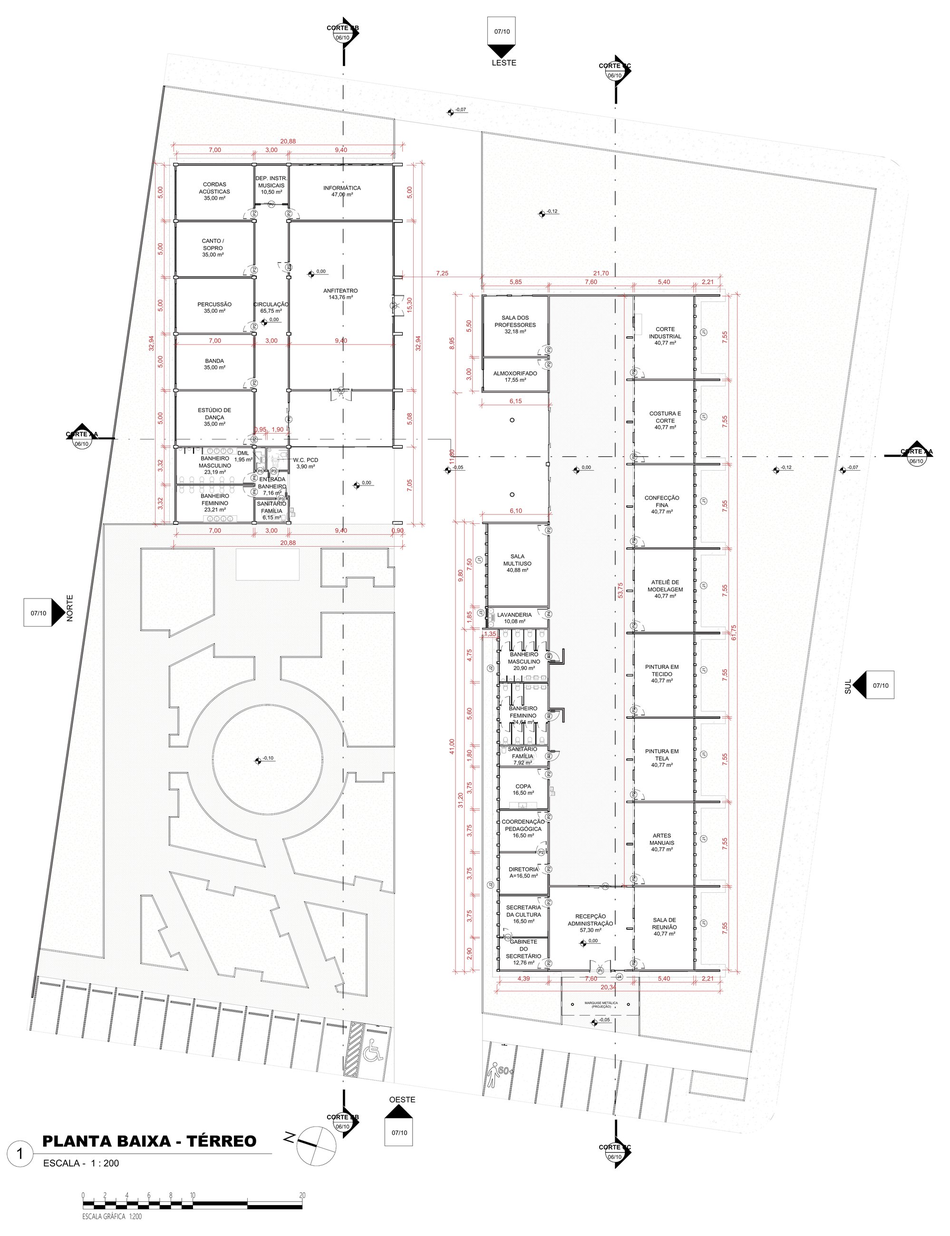
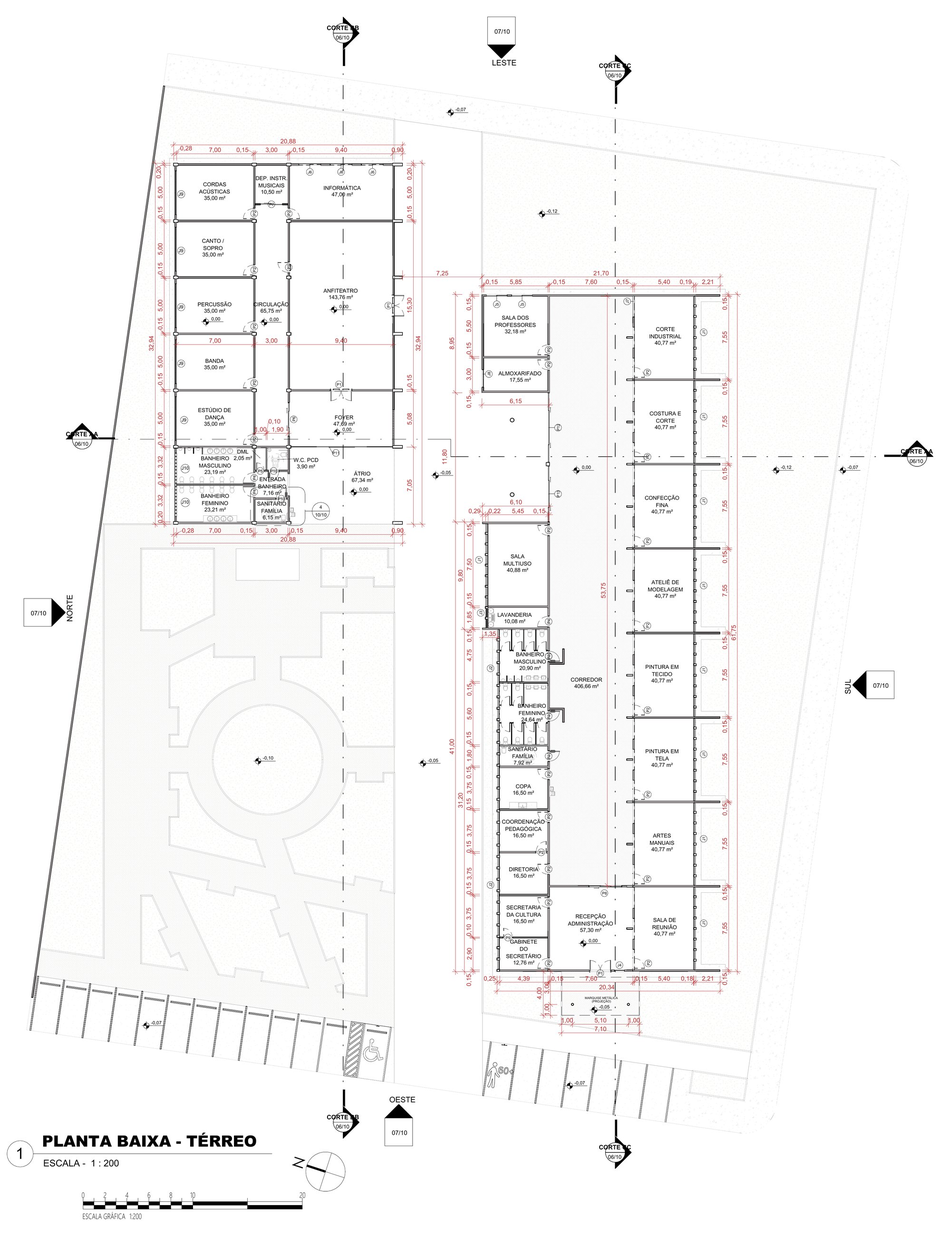
Galeria separada em Imagens e Pranchas; renders de 20/11, pranchas finais e textos da monografia v5
- Imagens: 8 renders novos do Lumion (20/11) no mosaico, no lugar dos de 29/10
- Pranchas: um quadro por folha (10 folhas, 22 desenhos na tela cheia, com os 3 detalhes)
- Textos alinhados à monografia v5: anfiteatro, foyer com o acervo, gestos, recepção, sanitário família
- README: descrição das duas listas da galeria

Claude-Session: https://claude.ai/code/session_01QK6B2hHwSUhmAHQDkk5ZUr

diff --git a/index.html b/index.html
@@ -537,6 +537,18 @@
     transition: background-color .2s, color .2s;
   }
   .ver-galeria[hidden] { display: none; }
+  /* subtítulos da galeria: Imagens e Pranchas */
+  .sub-galeria { margin: 2.75rem 0 0; font-family: var(--sans); font-size: .75rem; font-weight: 500; letter-spacing: .16em; text-transform: uppercase; color: var(--ardosia); }
+  .revelar > p + .sub-galeria { margin-top: 2rem; }
+  .sub-galeria + .galeria, .sub-galeria + .pranchas { margin-top: .9rem; }
+  /* pranchas: uma capa por folha; os outros desenhos da folha só aparecem na tela cheia */
+  .pranchas { display: grid; grid-template-columns: repeat(5, minmax(0, 1fr)); gap: 1.25rem .75rem; max-width: 56rem; list-style: none; }
+  .js .pranchas > li:not(.folha-capa) { display: none; }
+  .pranchas .quadro { height: auto; min-height: 0; aspect-ratio: 1; padding: 0; }
+  .pranchas .quadro:has(img) { border: 1px solid var(--linha); }
+  .js .pranchas .quadro:hover { border-color: var(--laranja); }
+  .pranchas .folha { margin: .55rem 0 0; font-family: var(--sans); font-size: .82rem; line-height: 1.35; color: var(--navy); }
+  .pranchas .folha span { display: block; margin-bottom: .15rem; font-size: .66rem; letter-spacing: .16em; text-transform: uppercase; color: var(--laranja-texto); }
   .ver-galeria svg { width: .95rem; height: .95rem; flex: none; }
   .ver-galeria:hover { background: var(--navy); color: #fff; }
 
@@ -804,6 +816,7 @@
   }
 
   @media (max-width: 960px) {
+    .pranchas { grid-template-columns: repeat(3, minmax(0, 1fr)); }
     .grade { grid-template-columns: minmax(0, 1fr); gap: 1rem; }
     .grade > .lateral { padding-top: 0; }
     .grade > .lateral ~ .lateral { margin-top: 2.75rem; }
@@ -828,6 +841,7 @@
     body { font-size: 1.03rem; }
     .setores, .pessoas, .preserva, .camadas, .legenda, .condicoes, .fotos, .dados { grid-template-columns: minmax(0, 1fr); }
     .galeria { grid-template-columns: repeat(2, minmax(0, 1fr)); }
+    .pranchas { grid-template-columns: repeat(2, minmax(0, 1fr)); gap: 1.1rem .75rem; }
     .galeria .destaque { grid-row: auto; }
     .destaque .quadro { aspect-ratio: 3 / 2; }
     /* no celular o mosaico fica com cinco; sem JavaScript, o último quadro fecha a grade sem sobrar buraco */
@@ -925,7 +939,7 @@
         <div class="largo"><dt>Área construída</dt><dd>1.975,72 m²: 1.129,59 m² no prédio de 1960, 687,79 m² no anexo e 158,34 m² na marquise de concreto</dd></div>
         <div><dt>Índices</dt><dd>Taxa de ocupação de 35,8%, coeficiente de aproveitamento de 0,36 e permeabilidade acima do mínimo de 8%</dd></div>
         <div><dt>Materiais do novo</dt><dd>Tijolo de cinza do bagaço de cana, concreto aparente, aço e telha termoacústica</dd></div>
-        <div class="largo"><dt>Programa</dt><dd><span class="parte"><strong>Prédio de 1960:</strong> oficinas de moda e confecção, pintura em tela e em tecido, biscuit e artes manuais (crochê e tricô), sala multiuso, administração e Secretaria da Cultura.</span> <span class="parte"><strong>Anexo:</strong> salas de música (cordas, canto e sopro, percussão e banda), estúdio de dança, informática e auditório.</span> <span class="parte"><strong>Área externa:</strong> praça do ipê-rosa com palco externo e feira cultural, marquise de convivência e estacionamento.</span></dd></div>
+        <div class="largo"><dt>Programa</dt><dd><span class="parte"><strong>Prédio de 1960:</strong> oficinas de moda e confecção, pintura em tela e em tecido, biscuit e artes manuais (crochê e tricô), sala multiuso, administração e Secretaria da Cultura.</span> <span class="parte"><strong>Anexo:</strong> salas de música (cordas, canto e sopro, percussão e banda), estúdio de dança, informática, anfiteatro e foyer de exposições.</span> <span class="parte"><strong>Área externa:</strong> praça do ipê-rosa com palco externo e feira cultural, marquise de convivência e estacionamento.</span></dd></div>
       </dl>
     </div>
   </div>
@@ -953,7 +967,7 @@
       <ol class="objetivos">
         <li><span class="n">01</span><span class="t">Devolver o CEAC à cidade como centro cultural contemporâneo, funcional e integrado à vida comunitária.</span></li>
         <li><span class="n">02</span><span class="t">Preservar o que o prédio de 1960 tem de valor: a fachada de tijolo aparente com pilares pintados, o piso de caquinhos, os painéis pintados e a ventilação natural.</span></li>
-        <li><span class="n">03</span><span class="t">Criar os espaços que os cursos pedem e o prédio nunca teve: salas de música com isolamento acústico, estúdio de dança, auditório e convivência coberta.</span></li>
+        <li><span class="n">03</span><span class="t">Criar os espaços que os cursos pedem e o prédio nunca teve: salas de música com isolamento acústico, estúdio de dança, anfiteatro e convivência coberta.</span></li>
         <li><span class="n">04</span><span class="t">Construir o novo com material regional e sustentável, o tijolo de cinza do bagaço de cana, ligando a obra à história econômica de Iracemápolis.</span></li>
       </ol>
     </div>
@@ -1130,11 +1144,11 @@
     <h3 class="lateral rotulo-bloco"><span class="rotulo">Os cinco gestos</span></h3>
     <div class="revelar">
       <ol class="gestos">
-        <li><span class="n">1</span><div><h4>Reativação bioclimática</h4><p>As calhas do vale e as janelas altas a norte são restauradas, e a ventilação natural por efeito chaminé volta a funcionar. Na entrada administrativa, uma marquise metálica nova recebe a água do vale nas chuvas fortes e a leva ao chão por dois pilares-condutores. O sistema original é reativado, não substituído.</p></div></li>
+        <li><span class="n">1</span><div><h4>Reativação bioclimática</h4><p>As calhas do vale e as janelas altas a norte são restauradas, e a ventilação natural por efeito chaminé volta a funcionar. Na fachada oeste, a marquise metálica da entrada administrativa recebe a água da calha do vale e a leva ao piso pelos pilares. O sistema original é reativado, não substituído.</p></div></li>
         <li><span class="n">2</span><div><h4>Marquise integradora</h4><p>Uma cobertura plana de concreto aparente liga o prédio antigo ao anexo e cria a convivência coberta que o conjunto não tinha.</p></div></li>
-        <li><span class="n">3</span><div><h4>Anexo em cumeeira invertida</h4><p>A cobertura em Λ dá pé-direito alto às salas de música e dança, leva a água para os beirais e traz luz difusa do sul. Aletas de concreto aparente dão ritmo e sombra à fachada voltada para a marquise; a norte, cada sala ganha uma janela com moldura de concreto, prateleira de luz e lâminas que sombreiam o vidro.</p></div></li>
-        <li><span class="n">4</span><div><h4>Acústica no anexo</h4><p>As salas de música recebem tratamento acústico interno, com painéis absorventes e difusores, e são separadas por divisórias de drywall duplo com lã de rocha. A parede de tijolo de CBC é a primeira barreira.</p></div></li>
-        <li><span class="n">5</span><div><h4>Distribuição por aptidão</h4><p>Cada uso vai para o volume que já tem as condições que ele pede: moda, artes manuais, artes visuais e administração no prédio de 1960; música, dança, informática e o auditório no anexo.</p></div></li>
+        <li><span class="n">3</span><div><h4>Anexo com cumeeira e zenital sul</h4><p>A cobertura em Λ dá pé-direito alto às salas de música, ao estúdio de dança e ao anfiteatro e leva a água para calhas externas nos beirais; o zenital voltado ao sul traz luz difusa à circulação central. Aletas de concreto aparente dão ritmo e sombra à fachada voltada para a marquise; a norte, cada sala ganha uma janela com moldura de concreto, prateleira de luz e lâminas que sombreiam o vidro.</p></div></li>
+        <li><span class="n">4</span><div><h4>Acústica no anexo</h4><p>As salas de música recebem tratamento acústico interno, com painéis absorventes e difusores, e são separadas por divisórias de drywall duplo com lã de rocha. A parede de tijolo de CBC é a primeira barreira, as divisórias isolam uma sala da outra e o tratamento interno corrige o som dentro de cada sala.</p></div></li>
+        <li><span class="n">5</span><div><h4>Distribuição por aptidão</h4><p>Cada uso vai para o volume que já tem as condições que ele pede: moda, confecção, artes visuais e administração, sem demanda acústica, no prédio de 1960; música, dança, informática e o anfiteatro no anexo, com as exposições no foyer.</p></div></li>
       </ol>
     </div>
 
@@ -1144,22 +1158,22 @@
         <article class="setor antigo">
           <span class="campo">Prédio de 1960</span>
           <h4>Oficinas e administração</h4>
-          <p>Oito salas de oficina: três de moda e confecção, três de artes visuais (pintura em tela, pintura em tecido e modelagem em biscuit), artes manuais e uma sala multiuso. Também a Secretaria Municipal da Cultura, a direção e a coordenação pedagógica do CEAC, a sala dos professores, a sala de reunião e sanitários refeitos, com sanitário acessível e sanitário família. Nenhuma parede original é demolida: o prédio recebe só uma parede nova, uma janela no lugar do cobogó da administração e uma porta remanejada.</p>
+          <p>Sete oficinas nas salas da face sul: três de moda e confecção, três de artes visuais (pintura em tela, pintura em tecido e modelagem em biscuit) e artes manuais; na face norte, a sala multiuso e a sala dos professores. A Secretaria Municipal da Cultura e a direção do CEAC ficam dos dois lados da recepção, onde se fazem as matrículas, e dividem a copa e a sala de reunião. Os sanitários são refeitos, com um sanitário família acessível; fora deles, nenhuma parede é demolida.</p>
         </article>
         <article class="setor anexo">
           <span class="campo">Anexo</span>
-          <h4>Música, dança e auditório</h4>
-          <p>Quatro salas de música (cordas, canto e sopro, percussão e banda), estúdio de dança, laboratório de informática e um auditório voltado para a marquise.</p>
+          <h4>Música, dança e anfiteatro</h4>
+          <p>Na faixa norte, quatro salas de música (cordas, canto e sopro, percussão e banda) e o estúdio de dança; na faixa sul, voltados à marquise, o átrio, o foyer, o anfiteatro e o laboratório de informática. O foyer recebe a exposição permanente do acervo Maria Dezonne Pacheco Fernandes e mostras dos artistas do CEAC.</p>
         </article>
         <article class="setor marquise">
           <span class="campo">Marquise</span>
           <h4>Convivência coberta</h4>
-          <p>Cobertura plana de concreto aparente entre os dois prédios: sombra, encontro e passagem.</p>
+          <p>Laje plana de concreto aparente, com as laterais abertas, sobre a esplanada que atravessa o terreno entre os dois prédios: sombra, encontro e passagem.</p>
         </article>
         <article class="setor praca">
           <span class="campo">Área externa</span>
           <h4>Praça do ipê</h4>
-          <p>Praça circular em torno do ipê-rosa existente, o protagonista. Junto ao anexo, um palco externo em nível, de concreto aparente, com a plateia no gramado; a oeste, barracas desmontáveis para uma feira cultural; e ainda playground, mesas de jogos e bicicletário. Doze espécies nativas garantem floração em todos os meses.</p>
+          <p>Praça circular em torno do ipê-rosa existente, o protagonista, com piso drenante, playground, mesas de jogos e bicicletário. Junto ao anexo, um palco externo em nível, de concreto aparente, recebe apresentações ao ar livre, e tendas desmontáveis abrigam uma feira. Doze espécies nativas garantem floração o ano todo.</p>
         </article>
       </div>
     </div>
@@ -1187,7 +1201,7 @@
       <blockquote class="citacao">
         <p>É a continuidade pelo contraste: o legado reconhecido exatamente por aquilo que o novo não imita.</p>
       </blockquote>
-      <p class="aviso">Plantas, cortes, fachadas e imagens do projeto estão na <a href="#galeria">galeria</a>.</p>
+      <p class="aviso">As imagens e as dez pranchas do projeto estão na <a href="#galeria">galeria</a>.</p>
     </div>
   </div>
 </section>
@@ -1197,31 +1211,44 @@
     <div class="lateral"><span class="rotulo">06 · Galeria</span></div>
     <div class="revelar">
       <h2>O projeto em <em>imagens</em>.</h2>
-      <p>Renders do modelo e desenhos das pranchas técnicas. Clique em uma imagem para ampliar.</p>
-      <ul class="galeria">
-        <li class="destaque"><button type="button" class="quadro"><img src="galeria/render-08-mini.jpg" data-grande="galeria/render-08.jpg" alt="Ao pôr do sol: o ipê-rosa, o caminho e a fachada do prédio de 1960" width="1100" height="619" loading="lazy"><span class="titulo-quadro"><strong>Ao pôr do sol: o ipê-rosa, o caminho e a fachada do prédio de 1960</strong></span></button></li>
-        <li><button type="button" class="quadro"><img src="galeria/render-12-mini.jpg" data-grande="galeria/render-12.jpg" alt="O ipê-rosa existente, protagonista da praça" width="1100" height="619" loading="lazy"><span class="titulo-quadro"><strong>O ipê-rosa existente, protagonista da praça</strong></span></button></li>
-        <li><button type="button" class="quadro"><img src="galeria/render-02-mini.jpg" data-grande="galeria/render-02.jpg" alt="Chegada pelo estacionamento" width="1100" height="619" loading="lazy"><span class="titulo-quadro"><strong>Chegada pelo estacionamento</strong></span></button></li>
-        <li><button type="button" class="quadro"><img src="galeria/render-04-mini.jpg" data-grande="galeria/render-04.jpg" alt="Os dois telhados: o V de 1960 e a cumeeira do anexo" width="1100" height="619" loading="lazy"><span class="titulo-quadro"><strong>Os dois telhados: o V de 1960 e a cumeeira do anexo</strong></span></button></li>
-        <li><button type="button" class="quadro"><img src="galeria/render-09-mini.jpg" data-grande="galeria/render-09.jpg" alt="O anexo e o prédio de 1960 vistos da praça" width="1100" height="619" loading="lazy"><span class="titulo-quadro"><strong>O anexo e o prédio de 1960 vistos da praça</strong></span></button></li>
-        <li><button type="button" class="quadro"><img src="galeria/render-10-mini.jpg" data-grande="galeria/render-10.jpg" alt="O prédio de 1960 visto da calçada" width="1100" height="619" loading="lazy"><span class="titulo-quadro"><strong>O prédio de 1960 visto da calçada</strong></span></button></li>
-        <li class="desenho"><button type="button" class="quadro"><img src="galeria/perspectiva-01-mini.jpg" data-grande="galeria/perspectiva-01.jpg" alt="Volumetria: perspectiva do conjunto" width="1100" height="287" loading="lazy"><span class="titulo-quadro"><strong>Volumetria: perspectiva do conjunto</strong></span></button></li>
-        <li class="desenho"><button type="button" class="quadro"><img src="galeria/perspectiva-02-mini.jpg" data-grande="galeria/perspectiva-02.jpg" alt="Volumetria: o prédio de 1960 e o anexo" width="1100" height="372" loading="lazy"><span class="titulo-quadro"><strong>Volumetria: o prédio de 1960 e o anexo</strong></span></button></li>
-        <li class="desenho"><button type="button" class="quadro"><img src="galeria/implantacao-mini.jpg" data-grande="galeria/implantacao.jpg" alt="Implantação" width="866" height="1100" loading="lazy"><span class="titulo-quadro"><strong>Implantação</strong></span></button></li>
-        <li class="desenho"><button type="button" class="quadro"><img src="galeria/planta-tecnica-mini.jpg" data-grande="galeria/planta-tecnica.jpg" alt="Planta baixa do térreo" width="845" height="1100" loading="lazy"><span class="titulo-quadro"><strong>Planta baixa do térreo</strong></span></button></li>
-        <li class="desenho"><button type="button" class="quadro"><img src="galeria/layout-mini.jpg" data-grande="galeria/layout.jpg" alt="Layout do térreo" width="851" height="1100" loading="lazy"><span class="titulo-quadro"><strong>Layout do térreo</strong></span></button></li>
-        <li class="desenho"><button type="button" class="quadro"><img src="galeria/cobertura-mini.jpg" data-grande="galeria/cobertura.jpg" alt="Planta de cobertura" width="837" height="1100" loading="lazy"><span class="titulo-quadro"><strong>Planta de cobertura</strong></span></button></li>
-        <li class="desenho"><button type="button" class="quadro"><img src="galeria/estrutura-mini.jpg" data-grande="galeria/estrutura.jpg" alt="Planta de estrutura" width="899" height="1100" loading="lazy"><span class="titulo-quadro"><strong>Planta de estrutura</strong></span></button></li>
-        <li class="desenho"><button type="button" class="quadro"><img src="galeria/corte-aa-mini.jpg" data-grande="galeria/corte-aa.jpg" alt="Corte AA" width="1100" height="246" loading="lazy"><span class="titulo-quadro"><strong>Corte AA</strong></span></button></li>
-        <li class="desenho"><button type="button" class="quadro"><img src="galeria/corte-bb-mini.jpg" data-grande="galeria/corte-bb.jpg" alt="Corte BB" width="1100" height="169" loading="lazy"><span class="titulo-quadro"><strong>Corte BB</strong></span></button></li>
-        <li class="desenho"><button type="button" class="quadro"><img src="galeria/corte-cc-mini.jpg" data-grande="galeria/corte-cc.jpg" alt="Corte CC" width="1100" height="186" loading="lazy"><span class="titulo-quadro"><strong>Corte CC</strong></span></button></li>
-        <li class="desenho"><button type="button" class="quadro"><img src="galeria/fachadas-norte-sul-mini.jpg" data-grande="galeria/fachadas-norte-sul.jpg" alt="Fachadas norte e sul" width="1100" height="339" loading="lazy"><span class="titulo-quadro"><strong>Fachadas norte e sul</strong></span></button></li>
-        <li class="desenho"><button type="button" class="quadro"><img src="galeria/fachadas-leste-oeste-mini.jpg" data-grande="galeria/fachadas-leste-oeste.jpg" alt="Fachadas leste e oeste" width="1100" height="518" loading="lazy"><span class="titulo-quadro"><strong>Fachadas leste e oeste</strong></span></button></li>
-        <li class="desenho"><button type="button" class="quadro"><img src="galeria/paisagismo-mini.jpg" data-grande="galeria/paisagismo.jpg" alt="Paisagismo: a praça do ipê" width="859" height="1100" loading="lazy"><span class="titulo-quadro"><strong>Paisagismo: a praça do ipê</strong></span></button></li>
-        <li class="desenho"><button type="button" class="quadro"><img src="galeria/quadro-especies-mini.jpg" data-grande="galeria/quadro-especies.jpg" alt="Quadro de espécies da praça" width="1100" height="466" loading="lazy"><span class="titulo-quadro"><strong>Quadro de espécies da praça</strong></span></button></li>
-        <li class="desenho"><button type="button" class="quadro"><img src="galeria/demolir-construir-mini.jpg" data-grande="galeria/demolir-construir.jpg" alt="Demolir e construir: o prédio de 1960" width="407" height="1100" loading="lazy"><span class="titulo-quadro"><strong>Demolir e construir: o prédio de 1960</strong></span></button></li>
+      <p>Vistas feitas no Lumion a partir do modelo do Revit e as dez pranchas técnicas do projeto. Clique para ampliar.</p>
+      <h3 class="sub-galeria">Imagens</h3>
+      <ul class="galeria" data-nome="Imagens">
+        <li class="destaque"><button type="button" class="quadro"><img src="galeria/render-praca-mini.jpg" data-grande="galeria/render-praca.jpg" alt="A praça, com o ipê-rosa no centro, a feira, o playground e o anexo ao fundo" width="1100" height="619" loading="lazy"><span class="titulo-quadro"><strong>A praça, com o ipê-rosa no centro, a feira, o playground e o anexo ao fundo</strong></span></button></li>
+        <li><button type="button" class="quadro"><img src="galeria/render-fachada-sul-mini.jpg" data-grande="galeria/render-fachada-sul.jpg" alt="A fachada sul do edifício de 1960, vista da Rua Cesarino Borba" width="1100" height="619" loading="lazy"><span class="titulo-quadro"><strong>A fachada sul do edifício de 1960, vista da Rua Cesarino Borba</strong></span></button></li>
+        <li><button type="button" class="quadro"><img src="galeria/render-esplanada-mini.jpg" data-grande="galeria/render-esplanada.jpg" alt="A esplanada sob a marquise de concreto, entre o anexo e o edifício de 1960" width="1100" height="619" loading="lazy"><span class="titulo-quadro"><strong>A esplanada sob a marquise de concreto, entre o anexo e o edifício de 1960</strong></span></button></li>
+        <li><button type="button" class="quadro"><img src="galeria/render-foyer-mini.jpg" data-grande="galeria/render-foyer.jpg" alt="O foyer do anexo, com a exposição e o cobogó de tijolo de CBC" width="1100" height="619" loading="lazy"><span class="titulo-quadro"><strong>O foyer do anexo, com a exposição e o cobogó de tijolo de CBC</strong></span></button></li>
+        <li><button type="button" class="quadro"><img src="galeria/render-fachada-leste-mini.jpg" data-grande="galeria/render-fachada-leste.jpg" alt="A fachada leste, na Rua Dom Pedro II: o telhado borboleta de 1960 e a cumeeira do anexo" width="1100" height="619" loading="lazy"><span class="titulo-quadro"><strong>A fachada leste, na Rua Dom Pedro II: o telhado borboleta de 1960 e a cumeeira do anexo</strong></span></button></li>
+        <li><button type="button" class="quadro"><img src="galeria/render-estacionamento-mini.jpg" data-grande="galeria/render-estacionamento.jpg" alt="O estacionamento e a entrada administrativa, com a marquise metálica" width="1100" height="619" loading="lazy"><span class="titulo-quadro"><strong>O estacionamento e a entrada administrativa, com a marquise metálica</strong></span></button></li>
+        <li><button type="button" class="quadro"><img src="galeria/render-marquise-mini.jpg" data-grande="galeria/render-marquise.jpg" alt="A marquise de concreto sobre a esplanada" width="1100" height="619" loading="lazy"><span class="titulo-quadro"><strong>A marquise de concreto sobre a esplanada</strong></span></button></li>
+        <li><button type="button" class="quadro"><img src="galeria/render-sob-a-marquise-mini.jpg" data-grande="galeria/render-sob-a-marquise.jpg" alt="O foyer envidraçado do anexo, à esquerda, e o edifício de 1960" width="1100" height="619" loading="lazy"><span class="titulo-quadro"><strong>O foyer envidraçado do anexo, à esquerda, e o edifício de 1960</strong></span></button></li>
       </ul>
-      <button type="button" class="ver-galeria" hidden><svg viewBox="0 0 16 16" aria-hidden="true"><path d="M1.5 1.5h5v5h-5zM9.5 1.5h5v5h-5zM1.5 9.5h5v5h-5zM9.5 9.5h5v5h-5z" fill="none" stroke="currentColor" stroke-width="1.3"/></svg><span>Ver a galeria completa (<span class="n">21</span>)</span></button>
+      <button type="button" class="ver-galeria" hidden><svg viewBox="0 0 16 16" aria-hidden="true"><path d="M1.5 1.5h5v5h-5zM9.5 1.5h5v5h-5zM1.5 9.5h5v5h-5zM9.5 9.5h5v5h-5z" fill="none" stroke="currentColor" stroke-width="1.3"/></svg><span>Ver todas as imagens (<span class="n">8</span>)</span></button>
+      <h3 class="sub-galeria">Pranchas</h3>
+      <ul class="pranchas" data-nome="Pranchas">
+        <li class="folha-capa desenho"><button type="button" class="quadro"><img src="galeria/implantacao-mini.jpg" data-grande="galeria/implantacao.jpg" alt="Folha 01 · Implantação" width="866" height="1100" loading="lazy"><span class="titulo-quadro"><strong>Folha 01 · Implantação</strong></span></button><p class="folha"><span>Folha 01</span>Implantação e localização</p></li>
+        <li class="folha-capa desenho"><button type="button" class="quadro"><img src="galeria/planta-tecnica-mini.jpg" data-grande="galeria/planta-tecnica.jpg" alt="Folha 02 · Planta baixa do térreo" width="845" height="1100" loading="lazy"><span class="titulo-quadro"><strong>Folha 02 · Planta baixa do térreo</strong></span></button><p class="folha"><span>Folha 02</span>Planta técnica</p></li>
+        <li class="folha-capa desenho"><button type="button" class="quadro"><img src="galeria/layout-mini.jpg" data-grande="galeria/layout.jpg" alt="Folha 03 · Layout do térreo" width="846" height="1100" loading="lazy"><span class="titulo-quadro"><strong>Folha 03 · Layout do térreo</strong></span></button><p class="folha"><span>Folha 03</span>Layout</p></li>
+        <li class="folha-capa desenho"><button type="button" class="quadro"><img src="galeria/cobertura-mini.jpg" data-grande="galeria/cobertura.jpg" alt="Folha 04 · Planta de cobertura" width="837" height="1100" loading="lazy"><span class="titulo-quadro"><strong>Folha 04 · Planta de cobertura</strong></span></button><p class="folha"><span>Folha 04</span>Cobertura</p></li>
+        <li class="folha-capa desenho"><button type="button" class="quadro"><img src="galeria/estrutura-mini.jpg" data-grande="galeria/estrutura.jpg" alt="Folha 05 · Planta de estrutura" width="899" height="1100" loading="lazy"><span class="titulo-quadro"><strong>Folha 05 · Planta de estrutura</strong></span></button><p class="folha"><span>Folha 05</span>Estrutura</p></li>
+        <li class="folha-capa desenho"><button type="button" class="quadro"><img src="galeria/cortes-mini.jpg" data-grande="galeria/cortes.jpg" alt="Folha 06 · Cortes AA, BB e CC" width="1100" height="606" loading="lazy"><span class="titulo-quadro"><strong>Folha 06 · Cortes AA, BB e CC</strong></span></button><p class="folha"><span>Folha 06</span>Cortes</p></li>
+        <li class="desenho"><button type="button" class="quadro"><img src="galeria/corte-aa-mini.jpg" data-grande="galeria/corte-aa.jpg" alt="Folha 06 · Corte AA" width="1100" height="282" loading="lazy"><span class="titulo-quadro"><strong>Folha 06 · Corte AA</strong></span></button></li>
+        <li class="desenho"><button type="button" class="quadro"><img src="galeria/corte-bb-mini.jpg" data-grande="galeria/corte-bb.jpg" alt="Folha 06 · Corte BB" width="1100" height="169" loading="lazy"><span class="titulo-quadro"><strong>Folha 06 · Corte BB</strong></span></button></li>
+        <li class="desenho"><button type="button" class="quadro"><img src="galeria/corte-cc-mini.jpg" data-grande="galeria/corte-cc.jpg" alt="Folha 06 · Corte CC" width="1100" height="186" loading="lazy"><span class="titulo-quadro"><strong>Folha 06 · Corte CC</strong></span></button></li>
+        <li class="folha-capa desenho"><button type="button" class="quadro"><img src="galeria/fachadas-mini.jpg" data-grande="galeria/fachadas.jpg" alt="Folha 07 · Fachadas norte, sul, leste e oeste" width="1100" height="723" loading="lazy"><span class="titulo-quadro"><strong>Folha 07 · Fachadas norte, sul, leste e oeste</strong></span></button><p class="folha"><span>Folha 07</span>Fachadas</p></li>
+        <li class="desenho"><button type="button" class="quadro"><img src="galeria/fachadas-norte-sul-mini.jpg" data-grande="galeria/fachadas-norte-sul.jpg" alt="Folha 07 · Fachadas norte e sul" width="1100" height="339" loading="lazy"><span class="titulo-quadro"><strong>Folha 07 · Fachadas norte e sul</strong></span></button></li>
+        <li class="desenho"><button type="button" class="quadro"><img src="galeria/fachadas-leste-oeste-mini.jpg" data-grande="galeria/fachadas-leste-oeste.jpg" alt="Folha 07 · Fachadas leste e oeste" width="1100" height="526" loading="lazy"><span class="titulo-quadro"><strong>Folha 07 · Fachadas leste e oeste</strong></span></button></li>
+        <li class="folha-capa desenho"><button type="button" class="quadro"><img src="galeria/paisagismo-mini.jpg" data-grande="galeria/paisagismo.jpg" alt="Folha 08 · Paisagismo: a praça" width="859" height="1100" loading="lazy"><span class="titulo-quadro"><strong>Folha 08 · Paisagismo: a praça</strong></span></button><p class="folha"><span>Folha 08</span>Paisagismo</p></li>
+        <li class="desenho"><button type="button" class="quadro"><img src="galeria/quadro-especies-mini.jpg" data-grande="galeria/quadro-especies.jpg" alt="Folha 08 · Quadro de espécies e legenda de pisos" width="1100" height="705" loading="lazy"><span class="titulo-quadro"><strong>Folha 08 · Quadro de espécies e legenda de pisos</strong></span></button></li>
+        <li class="folha-capa desenho"><button type="button" class="quadro"><img src="galeria/volumetria-mini.jpg" data-grande="galeria/volumetria.jpg" alt="Folha 09 · Perspectivas isométricas" width="1100" height="686" loading="lazy"><span class="titulo-quadro"><strong>Folha 09 · Perspectivas isométricas</strong></span></button><p class="folha"><span>Folha 09</span>Volumetria</p></li>
+        <li class="desenho"><button type="button" class="quadro"><img src="galeria/perspectiva-01-mini.jpg" data-grande="galeria/perspectiva-01.jpg" alt="Folha 09 · Perspectiva isométrica 01" width="1100" height="295" loading="lazy"><span class="titulo-quadro"><strong>Folha 09 · Perspectiva isométrica 01</strong></span></button></li>
+        <li class="desenho"><button type="button" class="quadro"><img src="galeria/perspectiva-02-mini.jpg" data-grande="galeria/perspectiva-02.jpg" alt="Folha 09 · Perspectiva isométrica 02" width="1100" height="378" loading="lazy"><span class="titulo-quadro"><strong>Folha 09 · Perspectiva isométrica 02</strong></span></button></li>
+        <li class="folha-capa desenho"><button type="button" class="quadro"><img src="galeria/folha-10-mini.jpg" data-grande="galeria/folha-10.jpg" alt="Folha 10 · Demolir e construir e detalhes" width="1100" height="868" loading="lazy"><span class="titulo-quadro"><strong>Folha 10 · Demolir e construir e detalhes</strong></span></button><p class="folha"><span>Folha 10</span>Demolir e construir e detalhes</p></li>
+        <li class="desenho"><button type="button" class="quadro"><img src="galeria/demolir-construir-mini.jpg" data-grande="galeria/demolir-construir.jpg" alt="Folha 10 · Planta de demolir e construir" width="368" height="1100" loading="lazy"><span class="titulo-quadro"><strong>Folha 10 · Planta de demolir e construir</strong></span></button></li>
+        <li class="desenho"><button type="button" class="quadro"><img src="galeria/detalhe-cumeeira-mini.jpg" data-grande="galeria/detalhe-cumeeira.jpg" alt="Folha 10 · Detalhe da cumeeira invertida" width="1100" height="846" loading="lazy"><span class="titulo-quadro"><strong>Folha 10 · Detalhe da cumeeira invertida</strong></span></button></li>
+        <li class="desenho"><button type="button" class="quadro"><img src="galeria/detalhe-fachada-norte-mini.jpg" data-grande="galeria/detalhe-fachada-norte.jpg" alt="Folha 10 · Detalhe do corte da fachada norte" width="613" height="1100" loading="lazy"><span class="titulo-quadro"><strong>Folha 10 · Detalhe do corte da fachada norte</strong></span></button></li>
+        <li class="desenho"><button type="button" class="quadro"><img src="galeria/detalhe-sanitario-mini.jpg" data-grande="galeria/detalhe-sanitario.jpg" alt="Folha 10 · Detalhe do sanitário acessível" width="1100" height="914" loading="lazy"><span class="titulo-quadro"><strong>Folha 10 · Detalhe do sanitário acessível</strong></span></button></li>
+      </ul>
     </div>
   </div>
 </section>
@@ -1300,7 +1327,7 @@
 
 <dialog class="visor" id="visor" aria-labelledby="visor-nome">
   <div class="visor-topo">
-    <span class="visor-nome" id="visor-nome">Galeria · Entre o Legado e a Continuidade</span>
+    <span class="visor-nome" id="visor-nome">Imagens · Entre o Legado e a Continuidade</span>
     <span class="visor-contador">1 / 12</span>
     <button type="button" class="visor-fechar" autofocus><svg viewBox="0 0 12 12" aria-hidden="true"><path d="m1 1 10 10M11 1 1 11" stroke="currentColor" stroke-width="1.6"/></svg>Fechar</button>
   </div>
@@ -1379,65 +1406,49 @@
     Object.keys(porId).concat('topo').forEach(function (id) { atual.observe(document.getElementById(id)); });
   })();
 
-  // galeria em tela cheia, como a do ArchDaily: mosaico na página, setas, contador e miniaturas
+  // galeria em tela cheia, como a do ArchDaily: mosaico de imagens e grade de pranchas, cada lista
+  // com a sua sequência no mesmo visor (setas, contador e miniaturas)
   (function () {
-    var lista = document.querySelector('.galeria');
+    var listas = document.querySelectorAll('.galeria, .pranchas');
     var visor = document.getElementById('visor');
-    if (!lista || !visor || typeof visor.showModal !== 'function') return;
+    if (!listas.length || !visor || typeof visor.showModal !== 'function') return;
 
-    var quadros = lista.querySelectorAll('.quadro');
-    var total = quadros.length;
-    var ver = document.querySelector('.ver-galeria');
     var imagem = visor.querySelector('.visor-imagem');
     var legenda = visor.querySelector('.visor-legenda');
     var contador = visor.querySelector('.visor-contador');
+    var nome = visor.querySelector('.visor-nome');
     var trilho = visor.querySelector('.visor-miniaturas');
     var palco = visor.querySelector('.visor-palco');
     var estreita = window.matchMedia('(max-width: 640px)');
     var marca = '<svg viewBox="0 0 32 32" aria-hidden="true"><path d="M7 14.5 16 7l9 7.5" fill="none" stroke="#EA5C1F" stroke-width="2" stroke-linecap="round" stroke-linejoin="round"/><path d="M7 18.5 16 26l9-7.5" fill="none" stroke="#D6D7D7" stroke-width="2" stroke-linecap="round" stroke-linejoin="round"/></svg>';
+    var aberta = null;   // a lista que está no visor
+    var quadros = [];
+    var total = 0;
     var minis = [];
     var atual = 0;
     var origem = null;
 
-    // o título vem do aviso "Em produção"; sem ele, do alt da imagem
-    function titulo(i) {
-      var s = quadros[i].querySelector('strong');
-      var img = quadros[i].querySelector('img');
+    // o título vem do <strong> escondido no quadro; sem ele, do alt da imagem
+    function titulo(q) {
+      var s = q.querySelector('strong');
+      var img = q.querySelector('img');
       return s ? s.textContent : (img ? img.alt : '');
     }
-    function foto(i) {
-      var img = quadros[i].querySelector('img');
+    function foto(q) {
+      var img = q.querySelector('img');
       return img ? (img.getAttribute('data-grande') || img.src) : '';
     }
 
-    // no mosaico ficam seis (cinco no celular), e o último mostra quantas faltam
-    var mais = document.createElement('span');
-    mais.className = 'mais';
-    mais.setAttribute('aria-hidden', 'true');
-    function marcarMais() {
-      var visiveis = estreita.matches ? 5 : 6;
-      quadros.forEach(function (q, i) {
-        q.classList.remove('tem-mais');
-        q.setAttribute('aria-label', 'Ampliar: ' + titulo(i));
-      });
-      if (total <= visiveis) {
-        if (mais.parentNode) mais.parentNode.removeChild(mais);
-        return;
-      }
-      mais.innerHTML = '+' + (total - visiveis) + '<small>Ver todas</small>';
-      quadros[visiveis - 1].appendChild(mais);
-      quadros[visiveis - 1].classList.add('tem-mais');
-      quadros[visiveis - 1].setAttribute('aria-label', 'Ver a galeria completa: mais ' + (total - visiveis) + ' imagens');
-    }
-
-    // as miniaturas só são montadas na primeira abertura, para não baixar todas as imagens com a página
+    // as miniaturas são montadas quando a lista é aberta, para não baixar todas as imagens com a página
     function montarMiniaturas() {
+      trilho.textContent = '';
+      minis = [];
       quadros.forEach(function (q, i) {
         var li = document.createElement('li');
         var b = document.createElement('button');
         b.type = 'button';
         b.className = 'visor-mini';
-        b.setAttribute('aria-label', (i + 1) + '. ' + titulo(i));
+        b.setAttribute('aria-label', (i + 1) + '. ' + titulo(q));
         var img = q.querySelector('img');
         if (img) {
           var m = document.createElement('img');
@@ -1456,18 +1467,19 @@
 
     function mostrar(i, suave) {
       atual = (i + total) % total;
-      var src = foto(atual);
+      var q = quadros[atual];
+      var src = foto(q);
       imagem.textContent = '';
       if (src) {
         var img = document.createElement('img');
         img.src = src;
-        img.alt = quadros[atual].querySelector('img').alt;
+        img.alt = q.querySelector('img').alt;
         img.draggable = false;
         imagem.appendChild(img);
       } else {
         imagem.innerHTML = '<div class="visor-vazio">' + marca + '<span>Em produção</span></div>';
       }
-      legenda.textContent = titulo(atual);
+      legenda.textContent = titulo(q);
       contador.textContent = (atual + 1) + ' / ' + total;
       minis.forEach(function (b, j) {
         if (j === atual) b.setAttribute('aria-current', 'true');
@@ -1478,30 +1490,65 @@
       trilho.scrollTo({ left: li.offsetLeft - (trilho.clientWidth - li.offsetWidth) / 2, behavior: suave ? 'smooth' : 'auto' });
       // as vizinhas já vão carregando
       [atual + 1, atual - 1].forEach(function (j) {
-        var s = foto((j + total) % total);
+        var s = foto(quadros[(j + total) % total]);
         if (s) new Image().src = s;
       });
     }
 
-    function abrir(i, botao) {
+    function abrir(lista, i, botao) {
       origem = botao;
-      if (!minis.length) montarMiniaturas();
+      if (aberta !== lista) {
+        aberta = lista;
+        quadros = Array.prototype.slice.call(lista.querySelectorAll('.quadro'));
+        total = quadros.length;
+        nome.textContent = (lista.getAttribute('data-nome') || 'Galeria') + ' · Entre o Legado e a Continuidade';
+        montarMiniaturas();
+      }
       document.documentElement.classList.add('visor-aberto');
       visor.showModal();
       mostrar(i);
     }
 
-    quadros.forEach(function (q, i) {
-      q.setAttribute('aria-haspopup', 'dialog');
-      q.addEventListener('click', function () { abrir(i, q); });
-    });
-    if (ver) {
-      ver.querySelector('.n').textContent = total;
-      ver.hidden = false;
-      ver.addEventListener('click', function () { abrir(0, ver); });
+    // no mosaico de imagens ficam seis (cinco no celular), e o último mostra quantas faltam
+    function mosaico(lista, qs) {
+      var n = qs.length;
+      var mais = document.createElement('span');
+      mais.className = 'mais';
+      mais.setAttribute('aria-hidden', 'true');
+      function marcar() {
+        var visiveis = estreita.matches ? 5 : 6;
+        qs.forEach(function (q) {
+          q.classList.remove('tem-mais');
+          q.setAttribute('aria-label', 'Ampliar: ' + titulo(q));
+        });
+        if (n <= visiveis) {
+          if (mais.parentNode) mais.parentNode.removeChild(mais);
+          return;
+        }
+        mais.innerHTML = '+' + (n - visiveis) + '<small>Ver todas</small>';
+        qs[visiveis - 1].appendChild(mais);
+        qs[visiveis - 1].classList.add('tem-mais');
+        qs[visiveis - 1].setAttribute('aria-label', 'Ver todas as imagens: mais ' + (n - visiveis));
+      }
+      var ver = lista.nextElementSibling;
+      if (ver && ver.classList.contains('ver-galeria')) {
+        ver.querySelector('.n').textContent = n;
+        ver.hidden = false;
+        ver.addEventListener('click', function () { abrir(lista, 0, ver); });
+      }
+      marcar();
+      estreita.addEventListener('change', marcar);
     }
-    marcarMais();
-    estreita.addEventListener('change', marcarMais);
+
+    Array.prototype.forEach.call(listas, function (lista) {
+      var qs = Array.prototype.slice.call(lista.querySelectorAll('.quadro'));
+      qs.forEach(function (q, i) {
+        q.setAttribute('aria-haspopup', 'dialog');
+        q.setAttribute('aria-label', 'Ampliar: ' + titulo(q));
+        q.addEventListener('click', function () { abrir(lista, i, q); });
+      });
+      if (lista.classList.contains('galeria')) mosaico(lista, qs);
+    });
 
     visor.querySelector('.anterior').addEventListener('click', function () { mostrar(atual - 1, true); });
     visor.querySelector('.proxima').addEventListener('click', function () { mostrar(atual + 1, true); });

diff --git a/README.md b/README.md
@@ -6,4 +6,4 @@ No ar em https://matheus-kemp.github.io/ceac/
 
 Fotos: `fotos/matheus-kemp.jpg` e `fotos/daniel-andrioli.jpg` (retrato 4:5).
 
-Galeria (seção 06): cada imagem é um `.quadro` no `index.html`, com `<img src="galeria/nome-mini.jpg" data-grande="galeria/nome.jpg" alt="...">` e o título em `<span class="titulo-quadro"><strong>...</strong></span>` (só para leitor de tela e para a legenda da tela cheia). `-mini` tem até 1100 px; a versão grande, até 2600 px. Itens com a classe `desenho` (pranchas) aparecem inteiros, sem corte, sobre fundo branco. As imagens de 17/11/2026 vêm dos renders do Lumion de 29/10 e de recortes do PDF das pranchas de 17/11.
+Galeria (seção 06): duas listas que abrem a mesma tela cheia. `ul.galeria` (Imagens) é o mosaico de renders: o primeiro item tem a classe `destaque`, aparecem seis (cinco no celular) e o último mostra "+N Ver todas". `ul.pranchas` (Pranchas) mostra um quadro por folha: o primeiro desenho de cada folha tem a classe `folha-capa` e uma legenda `<p class="folha"><span>Folha NN</span>Nome</p>`; os outros desenhos da folha ficam escondidos na grade e só aparecem na tela cheia, em sequência. Cada imagem é um `.quadro` com `<img src="galeria/nome-mini.jpg" data-grande="galeria/nome.jpg" alt="...">` e o título em `<span class="titulo-quadro"><strong>...</strong></span>` (só para leitor de tela e para a legenda da tela cheia). `-mini` tem até 1100 px; a versão grande, até 2600 px. Itens com a classe `desenho` aparecem inteiros, sem corte, sobre fundo branco. As imagens de 21/11/2026 vêm dos renders do Lumion de 20/11 e de recortes do PDF final das pranchas (dez folhas).
